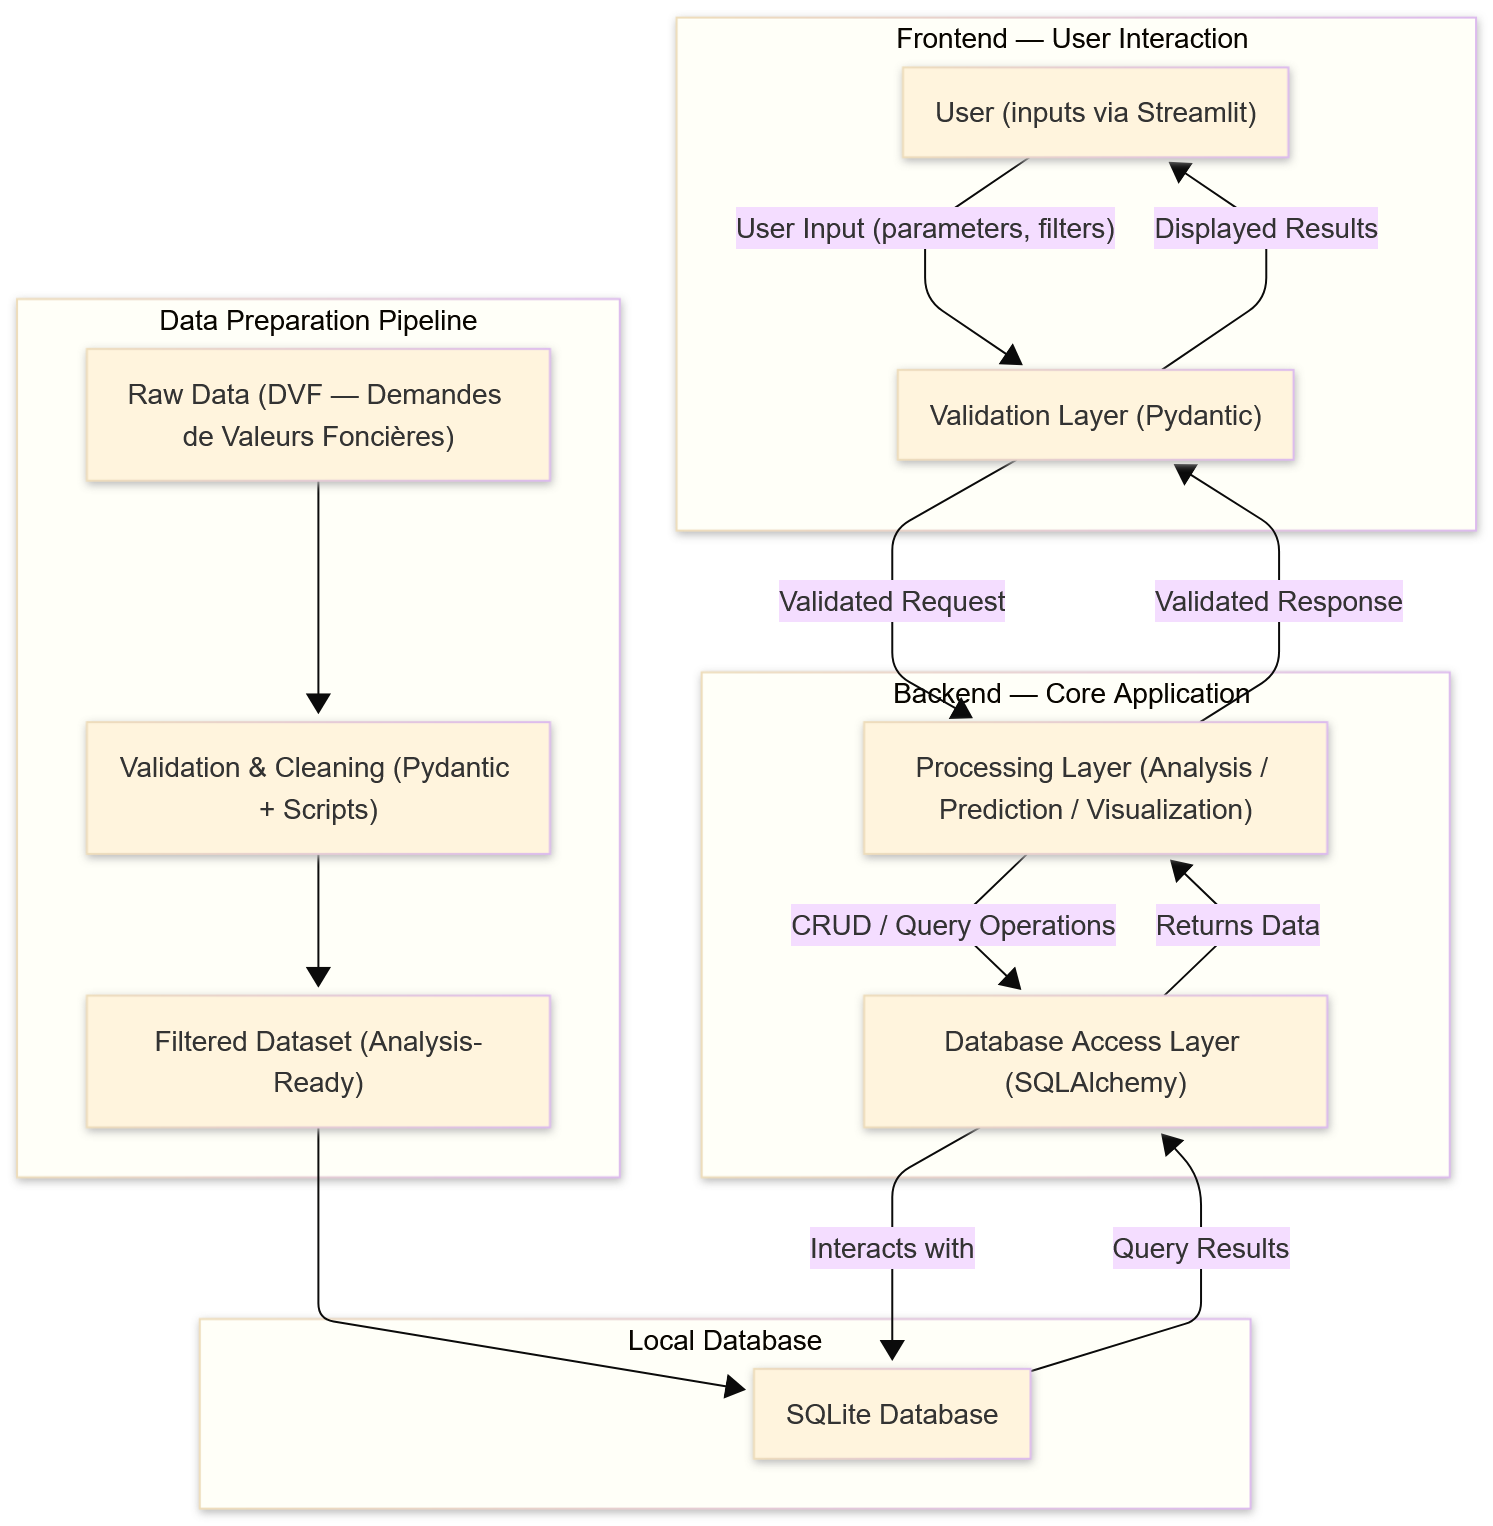
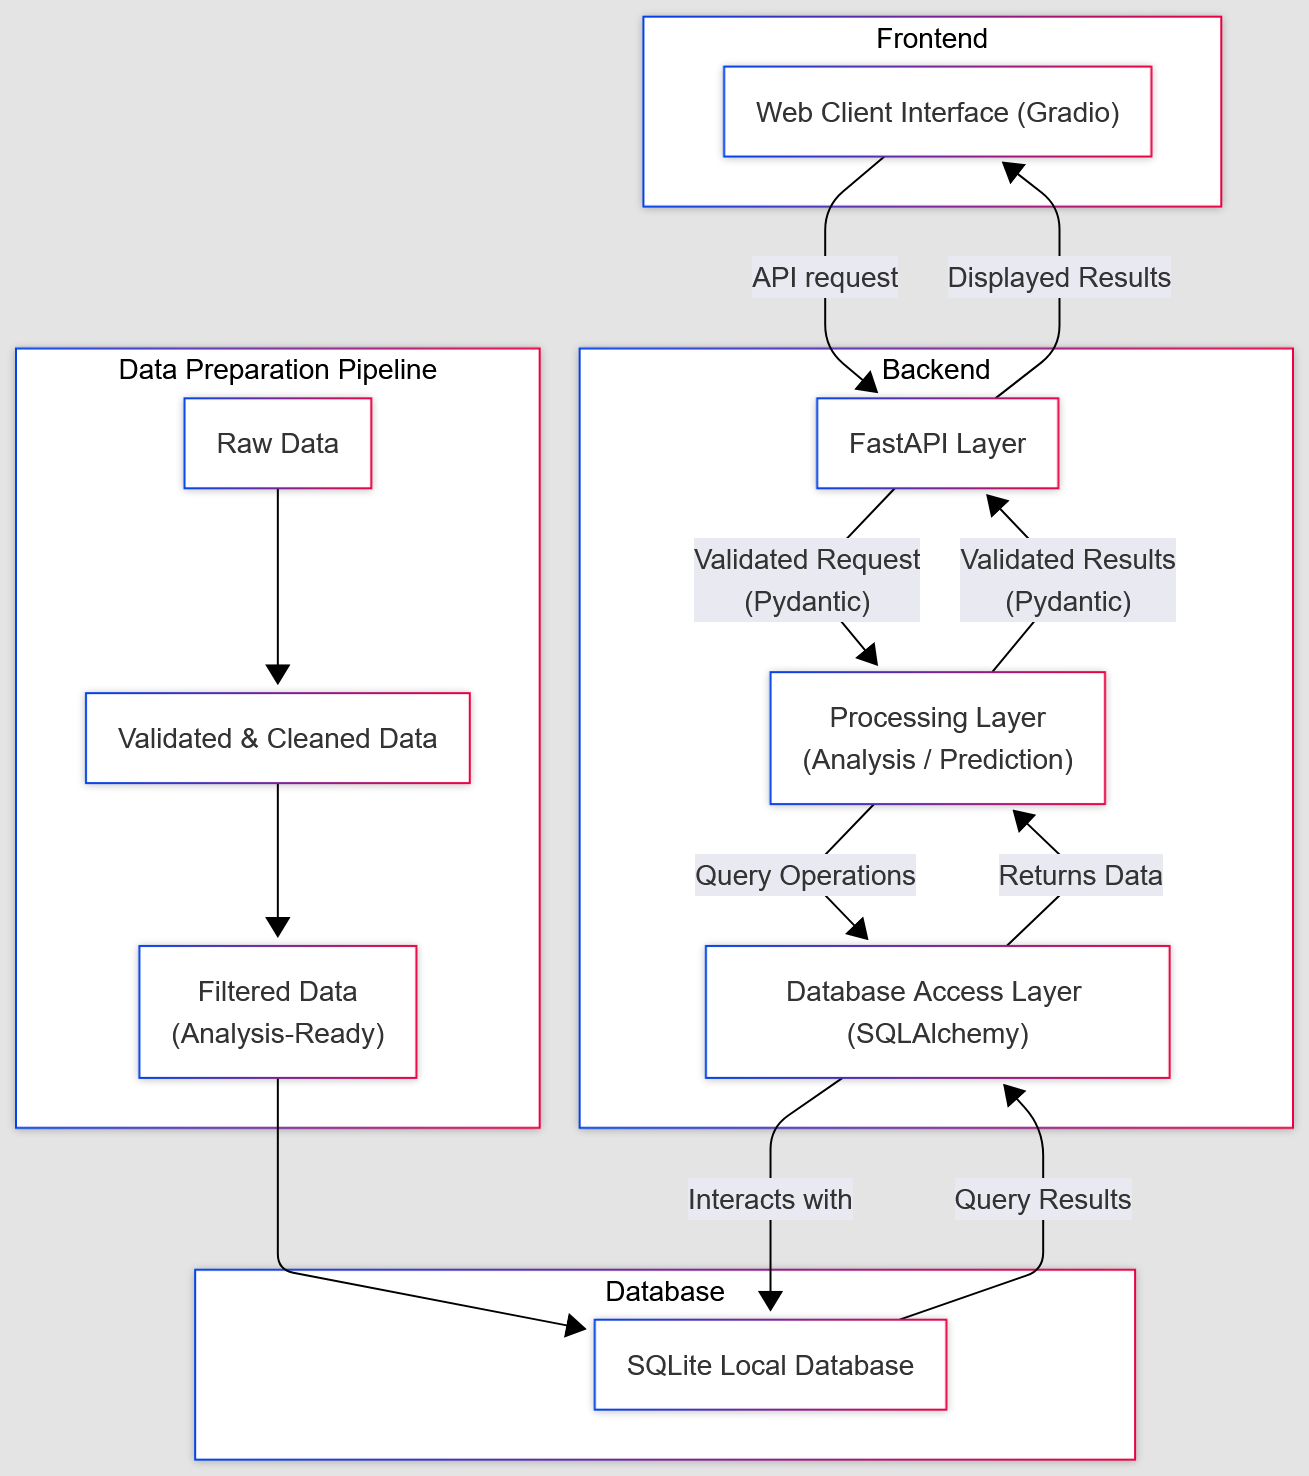
new git workflow diagram

diff --git a/README.md b/README.md
@@ -35,11 +35,13 @@ More infos (origin, localization, methods, variable glossary...) in docs/metadat
 
 ## Data Flow Diagram (DFD)
 
+PNG version in docs/data-flow.png
+
 ```mermaid
 
 ---
 config:
-  theme: base
+  theme: redux-dark
   layout: dagre
 ---
 flowchart BT
@@ -47,7 +49,7 @@ flowchart BT
         A["Web Client Interface (Gradio)"]
   end
  subgraph Backend["Backend"]
-        B["FastAPI Endpoint"]
+        B["FastAPI Layer"]
         D["Processing Layer<br>(Analysis / Prediction)"]
         E["Database Access Layer (SQLAlchemy)"]
   end
@@ -205,6 +207,8 @@ Minor changes:
 
 ## Git Workflow Diagram
 
+PNG version in docs/git-mr-workflow.png
+
 Noone is allowed to push on main, any development has to be done on a separate branch.  
 When ready, the features are merged on staging, a clone branch of main used a safety layer, before being merged to main.
 
@@ -212,50 +216,25 @@ When ready, the features are merged on staging, a clone branch of main used a sa
 
 ---
 config:
-  layout: elk
   theme: default
-title: Merge Request Workflow (feature -> staging -> main)
 ---
-flowchart TD
- subgraph Merge["When feature is ready"]
-        D["Review and clean commit history"]
-        E["Merge changes to staging"]
-        F["Resolve conflicts if any"]
-        G["Test staging build"]
-        H["Push staging"]
-        I["Open MR: staging → main"]
-  end
- subgraph CI["CI pipeline on push / MR"]
-    direction TB
-        CI1["pre-commit hooks<br>ruff lint & format"]
-        CI2["mypy typecheck"]
-        CI3["pip-audit dependency checks"]
-        CI4["pytest unit & doctests<br>+ behave tests"]
-  end
-    D --> E
-    E --> F
-    F --> G
-    G --> H
-    H --> I
-    CI1 --> CI2
-    CI2 --> CI3
-    CI3 --> CI4
-    Note["staging is a branch clone of main <br>It's a safety layer before merging into main"]
-     D:::local
-     E:::local
-     F:::local
-     G:::local
-     H:::remote
-     I:::remote
-     CI1:::ci
-     CI2:::ci
-     CI3:::ci
-     CI4:::ci
-     Note:::note
-    classDef local fill:#86c0ff,stroke:#004085,color:#004085
-    classDef remote fill:#afdeba,stroke:#155724,color:#155724
-    classDef ci fill:#fff2cc,stroke:#b58900,color:#8a5d00,font-weight:bold
-    classDef note fill:#bdbdbd,stroke:#6c757d,color:#212529,font-weight:bold
+gitGraph
+    commit id: "Feature 1"
+    branch feature
+    commit id: "New feature"
+    commit id: "More commits..."
+    commit id: " " type: HIGHLIGHT tag: "FEATURE READY"
+    commit id: "Review + Tests"
+    checkout main
+    commit id: "Feature 2"
+    commit id: "Feature 3"
+    branch staging
+    checkout staging
+    merge feature id: "Merge feature to staging" type: HIGHLIGHT
+    commit id: "Resolve conflicts"
+    commit id: "Clean history"
+    checkout main
+    merge staging id: "Merge Request to main" tag: "NEW FEATURE"
 
 ```
 
